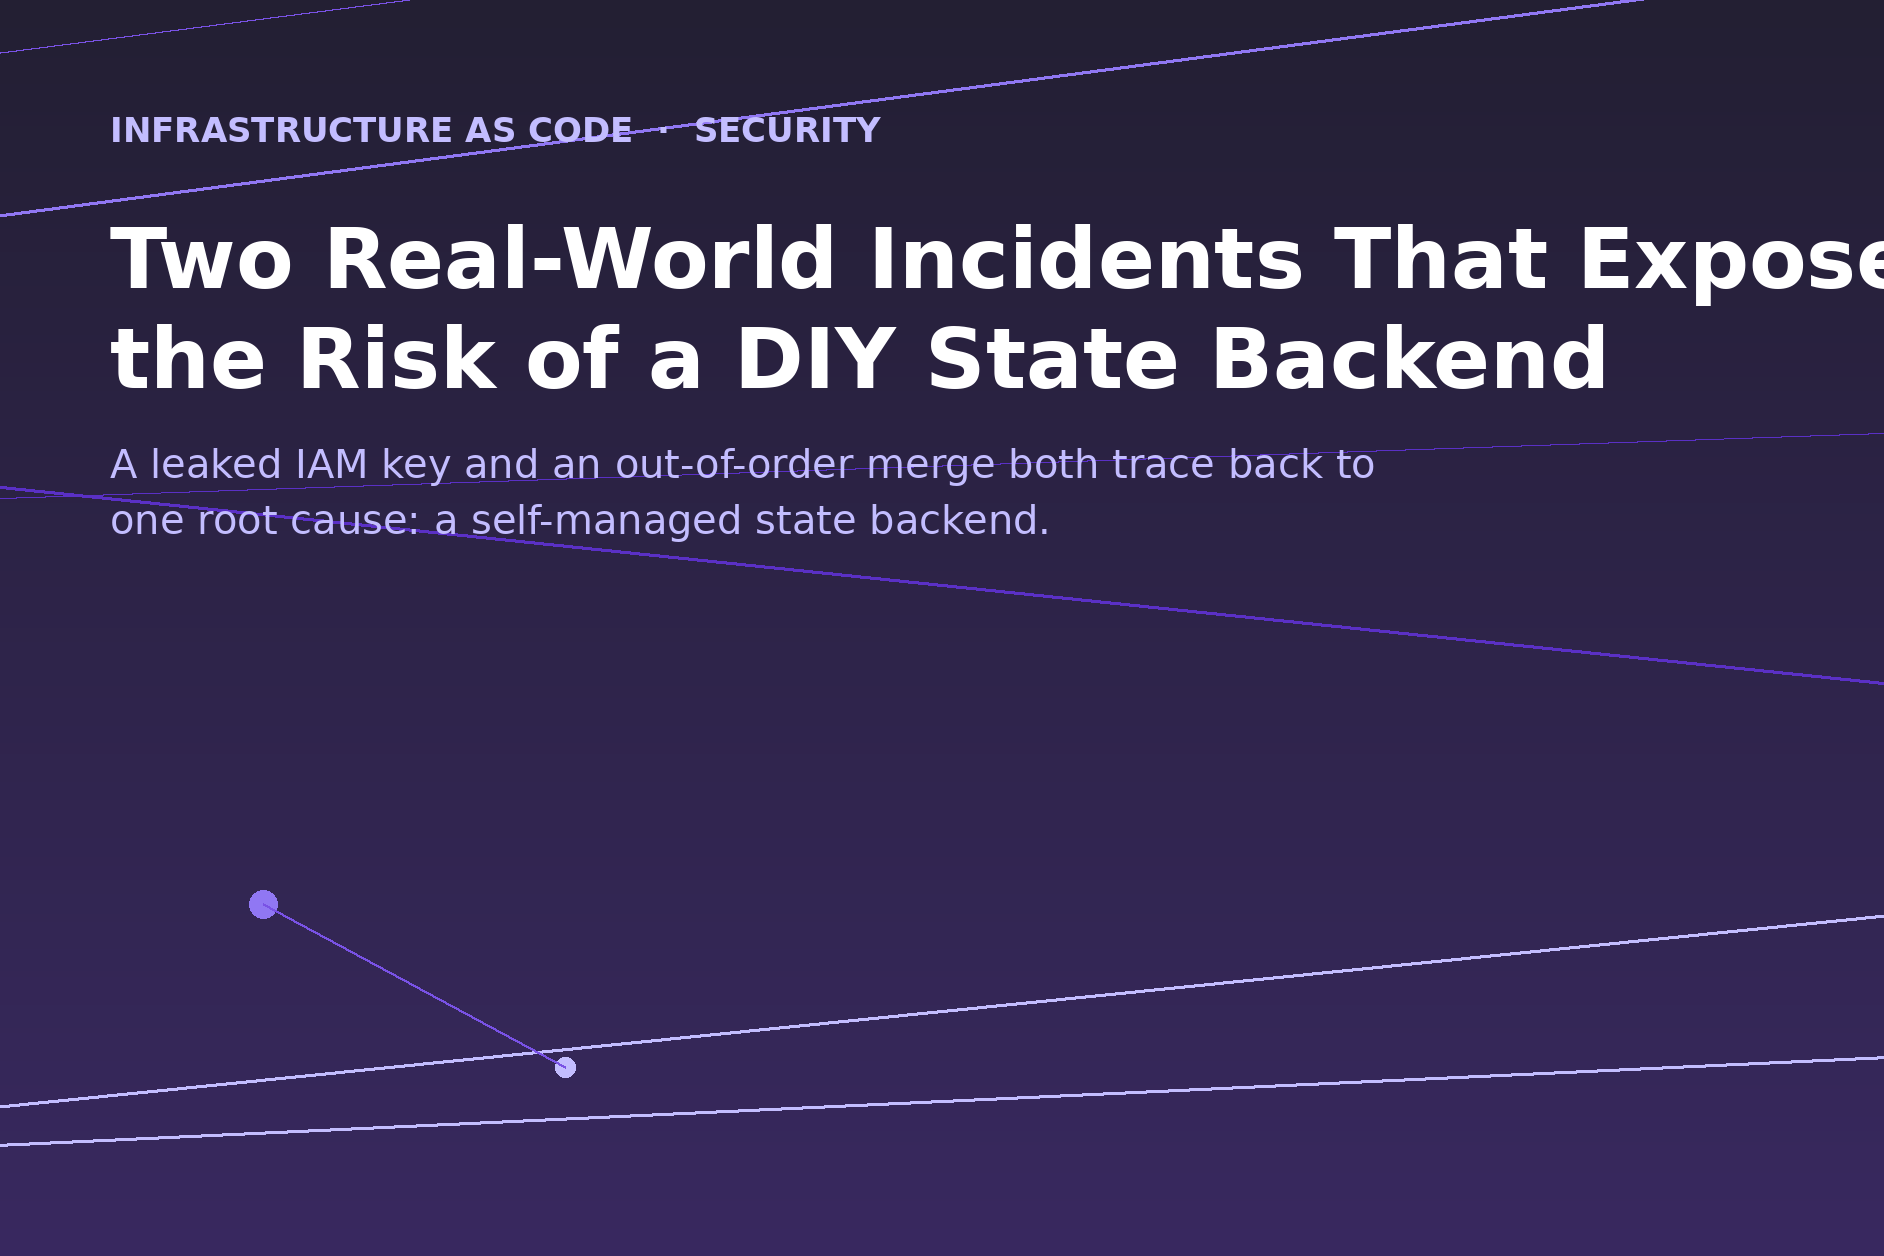
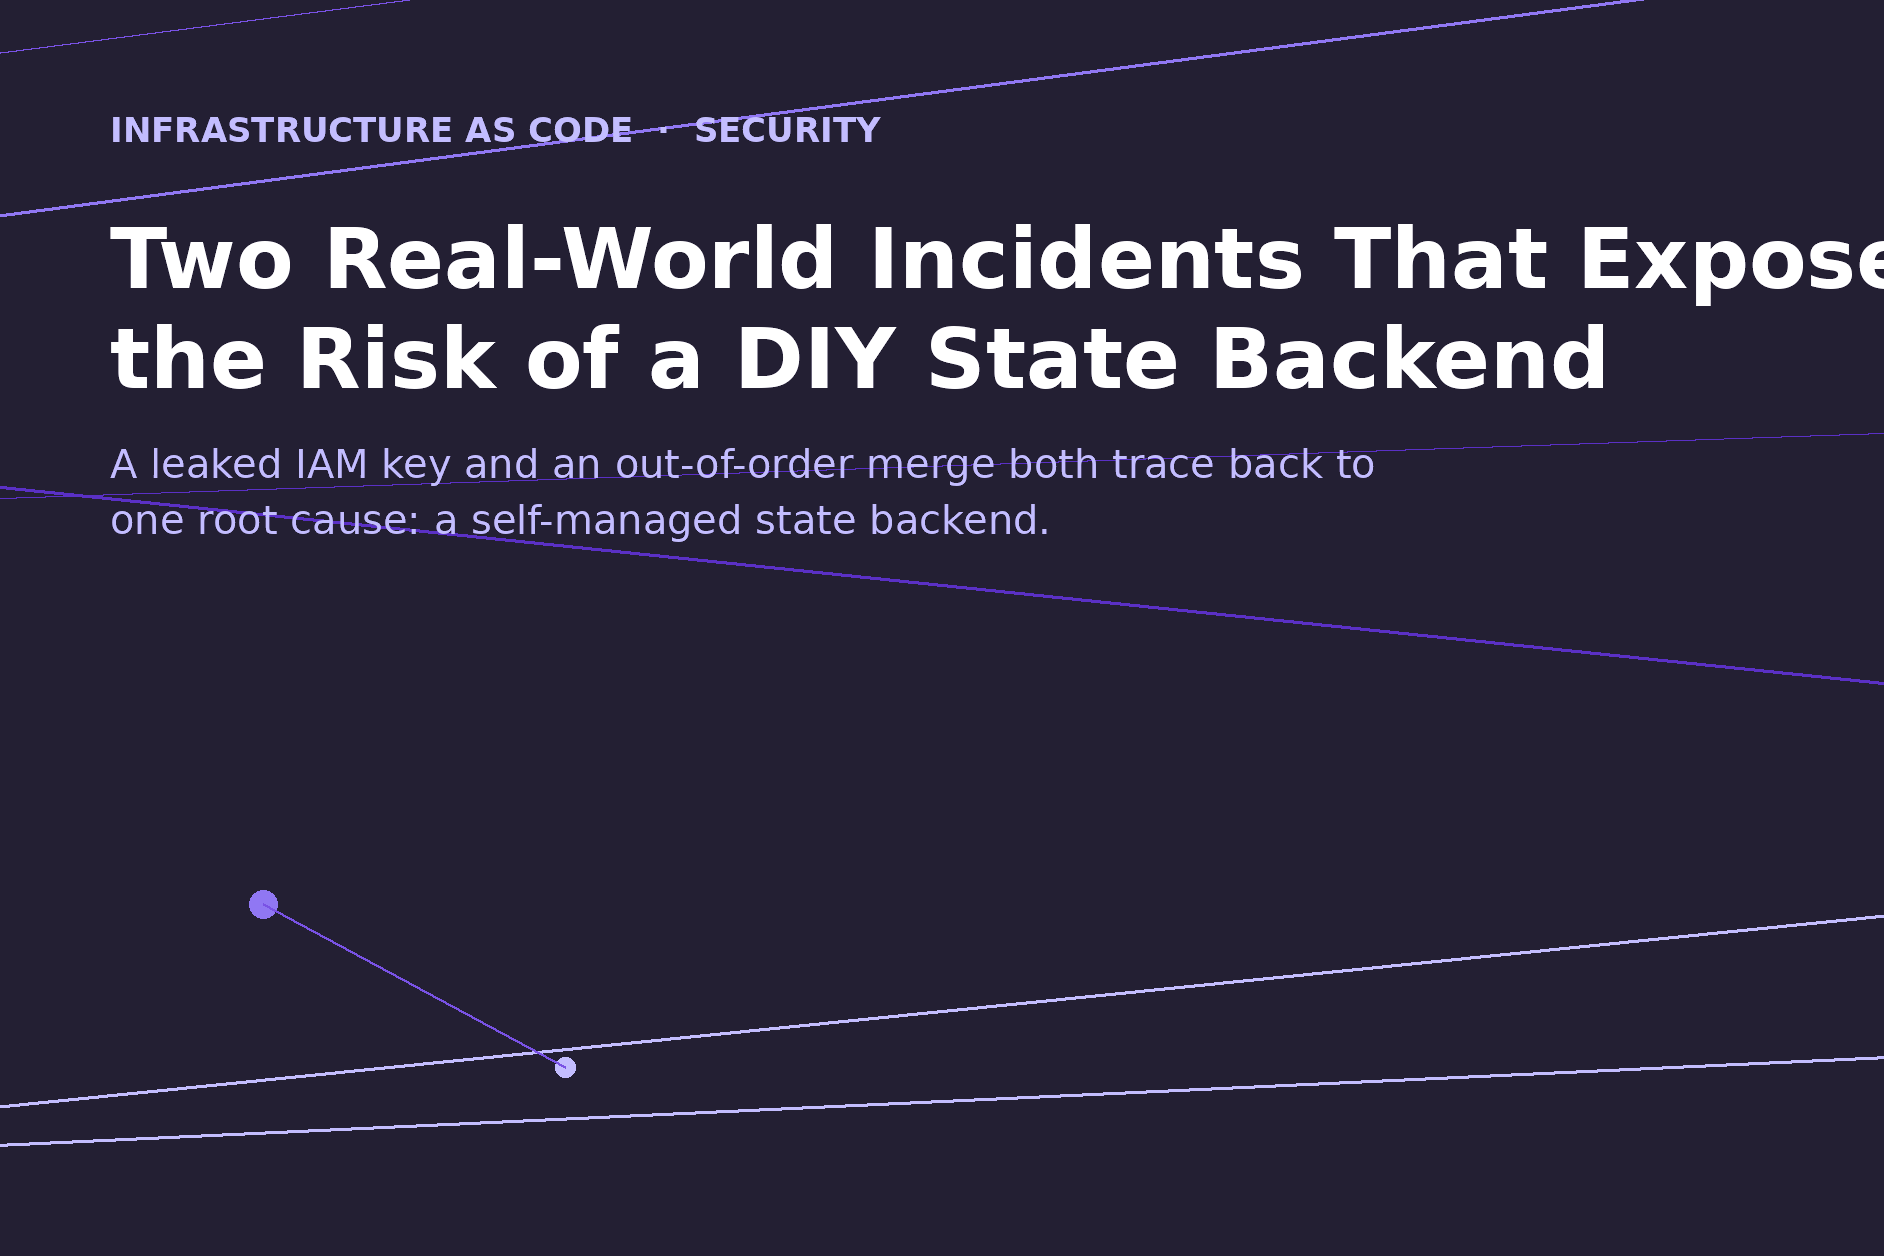
Flatten feature image background and shorten meta_desc
- Replace feature.png gradient background with flat brand violet (#231F33) to match site conventions
- Shorten meta_desc to 136 chars (was 148, needed under ~155-160 char SEO budget)

diff --git a/content/blog/diy-iac-state-backend-risks-two-incidents/index.md b/content/blog/diy-iac-state-backend-risks-two-incidents/index.md
@@ -1,7 +1,7 @@
 ---
 title: "Two Real-World Incidents That Expose the Risk of a DIY State Backend"
 date: 2026-07-25
-meta_desc: "A leaked IAM key in S3 and an out-of-order Terraform merge both trace back to one root cause: a self-managed state backend. Here's what a managed backend changes."
+meta_desc: "A leaked IAM key and an out-of-order merge both trace to one cause: a self-managed state backend. Here's what a managed backend changes."
 feature_image: feature.png
 authors:
     - alex-leventer
